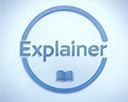
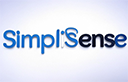
Renamed the project

diff --git a/browser_extension/src/options/options.tsx b/browser_extension/src/options/options.tsx
@@ -26,7 +26,7 @@ const App: React.FC<{}> = () => {
         {
           type: "basic",
           iconUrl: "icon48.png", // Ensure the path is correct
-          title: "Explaino Extension",
+          title: "SimpliSense Extension",
           message: "User preferences saved successfully!",
           priority: 2,
         },
@@ -55,7 +55,7 @@ const App: React.FC<{}> = () => {
             alt="extension icon"
           />
           <h1 className="text-2xl font-bold text-blue-600">
-            Explaino Settings
+            SimpliSense Settings
           </h1>
         </div>
 

diff --git a/browser_extension/src/popup/popup.tsx b/browser_extension/src/popup/popup.tsx
@@ -34,7 +34,7 @@ const App: React.FC<{}> = () => {
           className="w-16 h-16 object-contain mr-4"
           alt="extension icon"
         />
-        <h1 className="text-2xl font-bold text-blue-600">Explaino</h1>
+        <h1 className="text-2xl font-bold text-blue-600">SimpliSense</h1>
       </div>
 
       {/* Description */}

diff --git a/browser_extension/src/background/background.ts b/browser_extension/src/background/background.ts
@@ -93,7 +93,7 @@ connectWebSocket();
 chrome.runtime.onInstalled.addListener(() => {
   chrome.contextMenus.create({
     id: "processText",
-    title: "Explain with Explaino",
+    title: "Explain with SimpliSense",
     contexts: ["selection"],
   });
 });

diff --git a/README.md b/README.md
@@ -1,12 +1,12 @@
-# Explaino
+# SimpliSense
 
 ## Project Title
 
-Explaino - Harness the power of AI to demystify words and concepts, turning complex ideas into clear, understandable insights anytime, anywhere.
+SimpliSense - Harness the power of AI to demystify words and concepts, turning complex ideas into clear, understandable insights anytime, anywhere.
 
 ## Description
 
-Explaino is a browser extension and web application that uses AI to explain complex concepts and ideas in simple terms. It provides a user-friendly interface for interacting with different AI models and allows users to get explanations for any text they select on the web.
+SimpliSense is a browser extension and web application that uses AI to explain complex concepts and ideas in simple terms. It provides a user-friendly interface for interacting with different AI models and allows users to get explanations for any text they select on the web.
 
 ## Table of Contents
 
@@ -21,16 +21,16 @@ Explaino is a browser extension and web application that uses AI to explain comp
 
 ## Components
 
-Explaino consists of two main components:
+SimpliSense consists of two main components:
 
 - **Frontend**: A browser extension and web application built using React and TypeScript.
 - **Backend**: A server-side component built using Node.js and TypeScript, which provides an API for interacting with different AI models.
 
 ## Installation
 
-To install Explaino, follow these steps:
+To install SimpliSense, follow these steps:
 
-1. Clone the repository: `git clone https://github.com/your-username/explaino.git`
+1. Clone the repository: `git clone https://github.com/your-username/SimpliSense.git`
 2. Install dependencies: `npm install`
 3. Set up environment variables (e.g., API keys): `cp .env.example .env`
 4. Start the backend server: `cd backend && npm start`
@@ -38,17 +38,17 @@ To install Explaino, follow these steps:
 
 ## Usage
 
-To use Explaino, follow these steps:
+To use SimpliSense, follow these steps:
 
 1. Select some text on a web page.
-2. Right-click on the selected text and choose "Explain with Explaino".
-3. The Explaino popup will appear with an explanation of the selected text.
+2. Right-click on the selected text and choose "Explain with SimpliSense".
+3. The SimpliSense popup will appear with an explanation of the selected text.
 
 ## Configuration
 
-To configure Explaino, you can modify the following files:
+To configure SimpliSense, you can modify the following files:
 
-- [backend/src/server.ts](cci:7://file:///j:/repos/Explaino/backend/src/server.ts:0:0-0:0): Configure the WebSocket server and the AI models.
+- [backend/src/server.ts](cci:7://file:///j:/repos/SimpliSense/backend/src/server.ts:0:0-0:0): Configure the WebSocket server and the AI models.
 - `frontend/src/config.ts`: Configure the browser extension and web application.
 - `.env`: Set up environment variables for API keys and other settings.
 

diff --git a/backend/README.md b/backend/README.md
@@ -1,12 +1,12 @@
-# Explaino Backend
+# SimpliSense Backend
 
 ## Project Title
 
-Explaino Backend - Harness the power of AI to demystify words and concepts, turning complex ideas into clear, understandable insights anytime, anywhere.
+SimpliSense Backend - Harness the power of AI to demystify words and concepts, turning complex ideas into clear, understandable insights anytime, anywhere.
 
 ## Description
 
-The Explaino Backend is a server-side component of the Explaino project. It provides an API for interacting with different AI models and handles the communication between the frontend and the AI models.
+The SimpliSense Backend is a server-side component of the SimpliSense project. It provides an API for interacting with different AI models and handles the communication between the frontend and the AI models.
 
 ## Table of Contents
 
@@ -20,14 +20,14 @@ The Explaino Backend is a server-side component of the Explaino project. It prov
 
 ## Installation
 
-1. Clone the repository: `git clone https://github.com/your-username/explaino-backend.git`
+1. Clone the repository: `git clone https://github.com/your-username/SimpliSense-backend.git`
 2. Install dependencies: `npm install`
 3. Set up environment variables (e.g., API keys): `cp .env.example .env`
 4. Start the server: `npm start`
 
 ## Usage
 
-To use the Explaino Backend API, you can send HTTP requests to the server. The API supports the following endpoints:
+To use the SimpliSense Backend API, you can send HTTP requests to the server. The API supports the following endpoints:
 
 - `/api/chat`: Send a chat message to the AI model and receive a response.
 - `/api/generate`: Generate text using the AI model.
@@ -36,7 +36,7 @@ For more details on how to use the API, refer to the [API documentation](docs/ap
 
 ## Configuration
 
-To configure the Explaino Backend, you can modify the following files:
+To configure the SimpliSense Backend, you can modify the following files:
 
 - `src/server.ts`: Configure the WebSocket server and the AI models.
 - `.env`: Set up environment variables for API keys and other settings.

diff --git a/browser_extension/README.md b/browser_extension/README.md
@@ -1,4 +1,4 @@
-# Explaino Chrome Extension
+# SimpliSense Chrome Extension
 
 A Chrome extension built with React, TypeScript, and Tailwind CSS.
 
@@ -7,9 +7,9 @@ A Chrome extension built with React, TypeScript, and Tailwind CSS.
 1. `npm i` to install dependencies
 2. Create necessary configuration files:
 
-    ``` bash
-    npx tailwindcss init 
-    ```
+   ```bash
+   npx tailwindcss init
+   ```
 
 3. Create `postcss.config.js` in the root directory
 4. Create `src/styles/global.css` for Tailwind imports
@@ -26,7 +26,7 @@ module.exports = {
     tailwindcss: {},
     autoprefixer: {},
   },
-}
+};
 ```
 
 `src/styles/global.css`
@@ -42,15 +42,12 @@ module.exports = {
 ```javascript
 /** @type {import('tailwindcss').Config} */
 module.exports = {
-  content: [
-    "./src/**/*.{js,jsx,ts,tsx}",
-    "./src/**/*.html",
-  ],
+  content: ["./src/**/*.{js,jsx,ts,tsx}", "./src/**/*.html"],
   theme: {
     extend: {},
   },
   plugins: [],
-}
+};
 ```
 
 ## Loading The Chrome Extension
